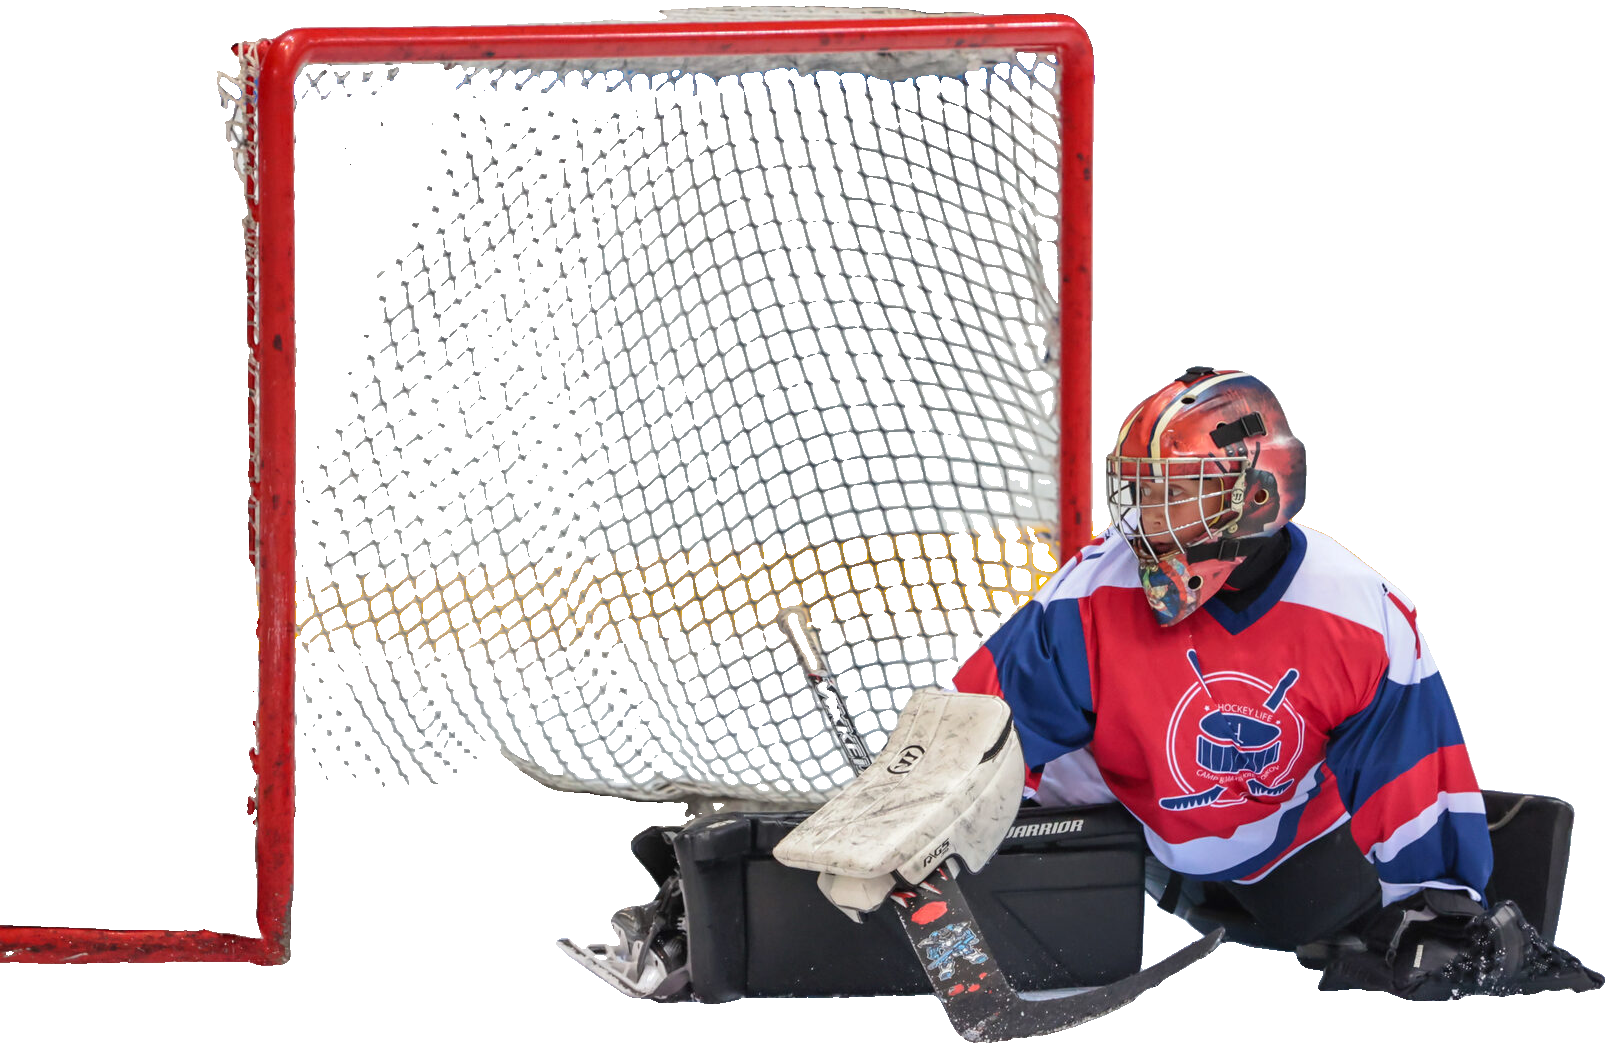
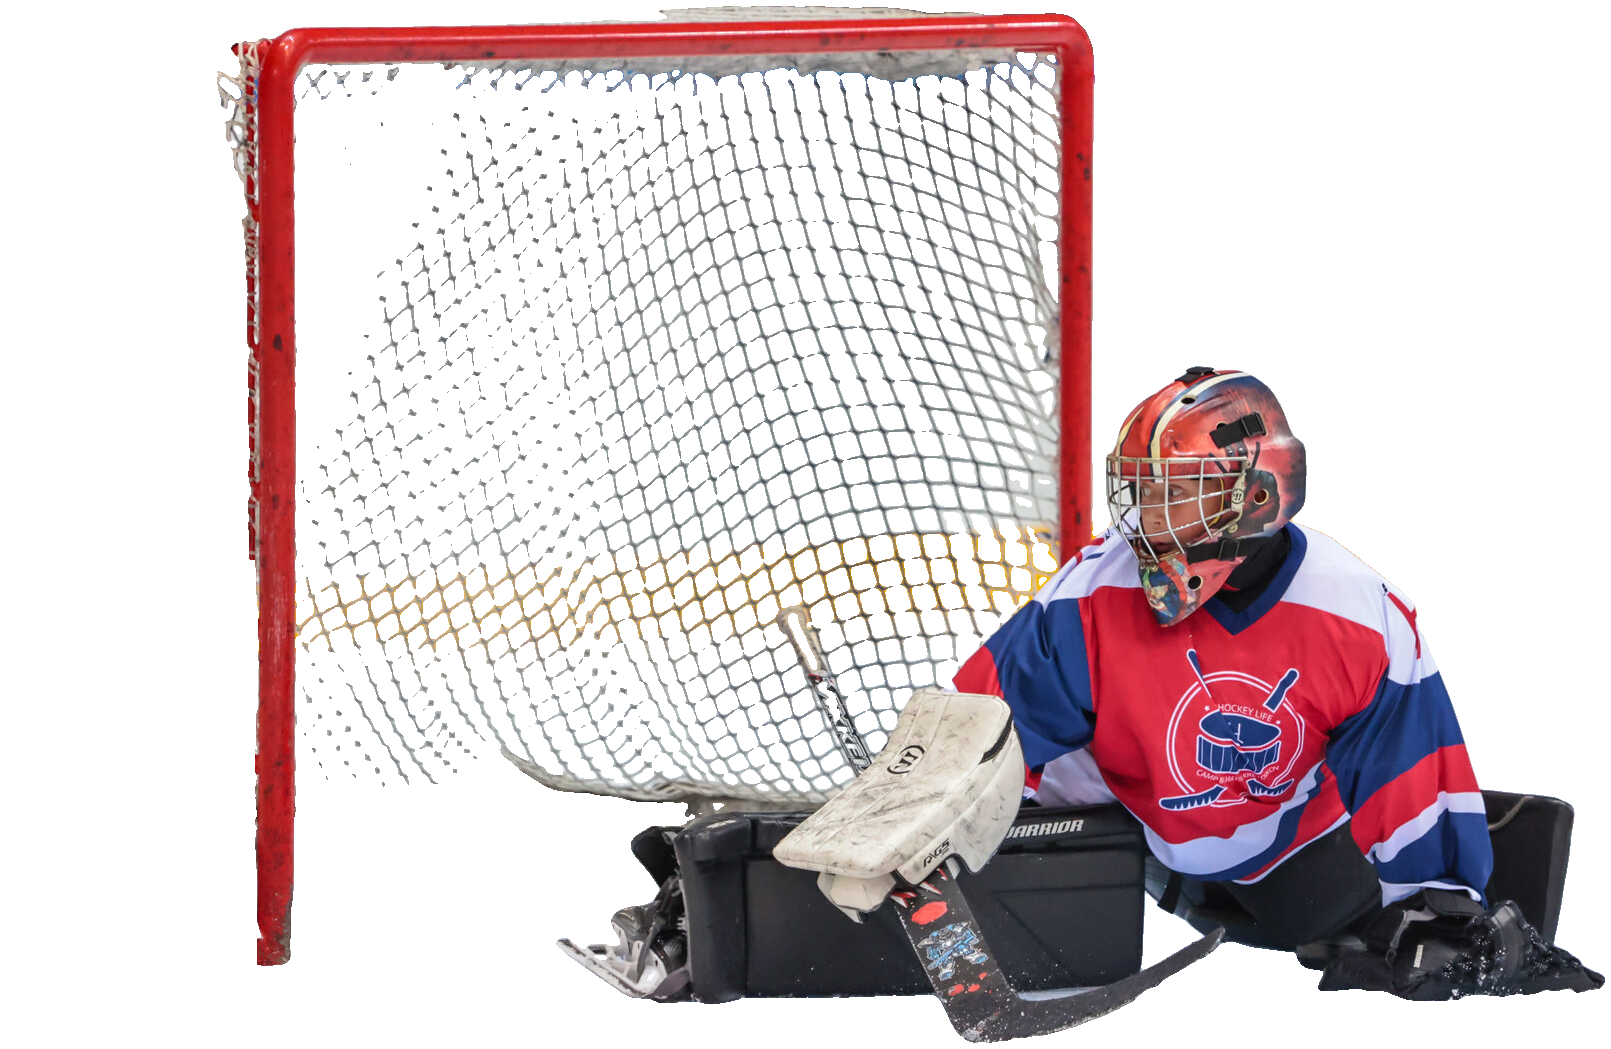
Фото: в галерее другой вратарь, вырезка ворот без сфотографированной планки, конёк в первом кадре
- Галерея: goalie-stance вместо goalie-butterfly (из него сделана вырезка ворот в программе, кадр повторялся);
  goalie-butterfly перенесён в spare/. На goalie-stance нет имён — только логотип сборов и марки экипировки.
- goalie-net.png: стёрта красная планка слева от левой штанги и выступ на её кромке — линию ворот рисует CSS.
- skater.png: брызги льда из-под конька возвращены из исходного снимка, жёлтое пятно убрано.

Changed region(s): [[0.0, 0.8847, 0.1552, 0.9457]]

diff --git a/src/assets/photos/spare/README.md b/src/assets/photos/spare/README.md
@@ -1,2 +1,4 @@
 Фотографии со старого сайта, которые сейчас не используются на странице (описания — в src/data/photos.ts).
 Чтобы вернуть фото в галерею, перенесите файл на уровень выше и добавьте его имя в `order` в src/components/Gallery.astro.
+
+goalie-butterfly.jpg — исходник вырезки src/assets/cutouts/goalie-net.png (блок вратарей в программе): в галерее был бы тот же кадр.
